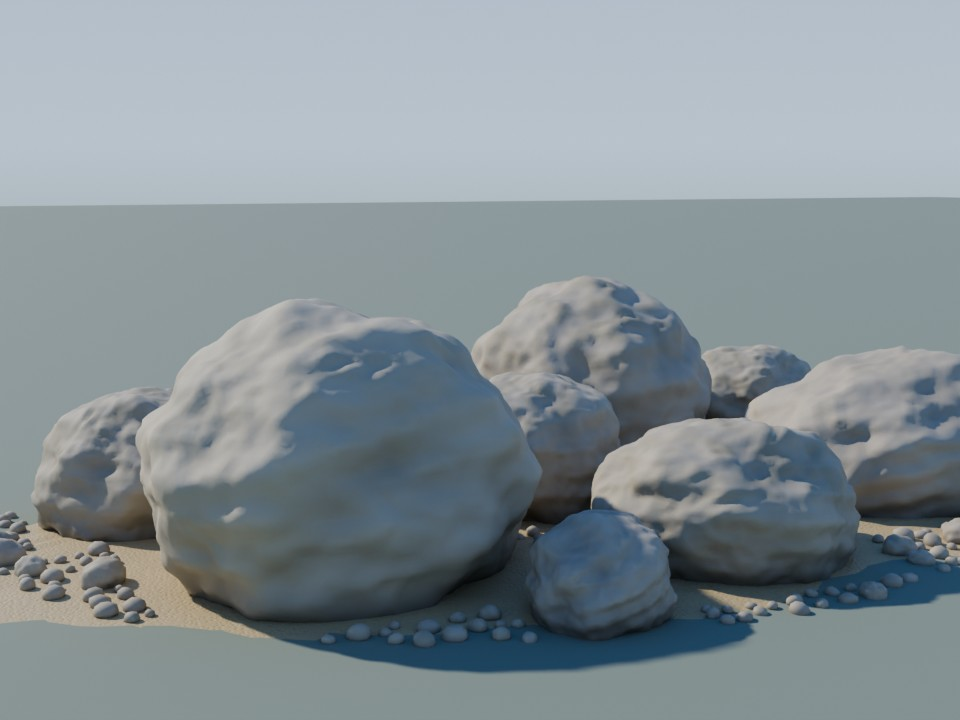
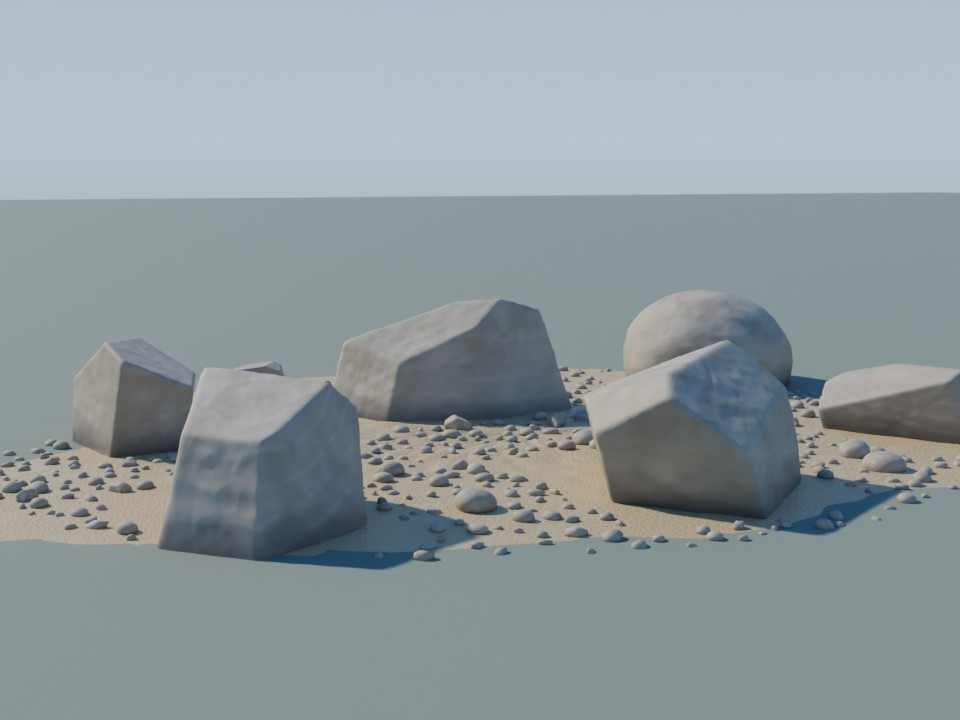
Match shore donor facets with low relief and open gravel channels

diff --git a/assets/rocks/shore_stones_a/build.py b/assets/rocks/shore_stones_a/build.py
@@ -1,4 +1,4 @@
-"""Pale lake-shore limestone; approved stone generator and shader copied verbatim."""
+"""Pale lake-shore limestone; donor geometry at 20% relief and unchanged shader."""
 import math
 import random
 
@@ -175,15 +175,15 @@ def cobble(m, p, template, x, d, r, flat, rng, form=None):
         coarse = n3(2.1*u, 2.1*v+seed, 2.1*w)
         medium = n3(5.75*u, 5.75*v, 5.75*w+seed)
         fine = n3(15*u+seed, 15*v, 15*w)
-        radial = 1 + (.13 if form == "worn" else .09)*coarse
+        radial = 1 + (.026 if form == "worn" else .018)*coarse
         for nx, ny, nz, upper in cuts:
             dot = nx*u+ny*v+nz*w
             if dot > .28:
                 radial = eased_min(radial, upper/dot, .035 if form != "worn" else .095)
         lamina = math.sin((19+7*weather)*(w+.22*u-.14*v) + .76*coarse)
         breakout = smooth(.44 + 1.25*medium - .43*weather)
-        radial *= (1 + (.026+.016*weather)*medium + .013*fine
-                   - .043*chip*breakout + (.019 if form == "slab" else .010)*lamina)
+        radial *= (1 + (.0052+.0032*weather)*medium + .0026*fine
+                   - .0086*chip*breakout + (.0038 if form == "slab" else .002)*lamina)
         u1, v1 = (u*radial + lean*w*.48)*r, v*radial*r*elongation
         px, py = x+ca*u1-sa*v1, y+sa*u1+ca*v1
         z = z0 + r*flat*(w*radial + lean*u*.41)
@@ -261,7 +261,7 @@ def finish():
     vrlib.use_cycles_cpu(bpy.context.scene, 32)
 
 
-def shore_stone(name, radius, flat, centre, seed, material, level=6, form="worn"):
+def shore_stone(name, radius, flat, centre, seed, material, level=6, form="split"):
     if radius <= 0 or flat <= 0 or level < 1:
         raise ValueError("Positive radius, flattening and subdivision level required")
     palette = {key:value["linear_rgb"] for key,value in vrmat.load_palette().items()}
@@ -285,6 +285,9 @@ def shore_stone(name, radius, flat, centre, seed, material, level=6, form="worn"
     cobble(mesh,palette,_TEMPLATES[level],0,3,radius,flat,random.Random(selected),form)
     lo = Vector(tuple(min(p[i] for p in mesh.verts) for i in range(3)))
     hi = Vector(tuple(max(p[i] for p in mesh.verts) for i in range(3)))
+    height_scale = flat*max(hi.x-lo.x,hi.y-lo.y)/(hi.z-lo.z)
+    mesh.verts = [(p[0],p[1],lo.z+(p[2]-lo.z)*height_scale) for p in mesh.verts]
+    hi.z = lo.z+(hi.z-lo.z)*height_scale
     middle = (lo+hi)*.5
     datum = centre[2] if len(centre)>2 else -.027
     offset = Vector((centre[0]-middle.x,centre[1]-middle.y,datum-lo.z))
@@ -305,6 +308,8 @@ def shore_stone(name, radius, flat, centre, seed, material, level=6, form="worn"
     obj["wet_gradient_height_m"] = wet_height
     obj["wet_base_z"] = datum
     obj["stone_form"] = form
+    obj["height_width_ratio"] = flat
+    obj["donor_displacement_multiplier"] = .2
     return obj
 
 
@@ -359,22 +364,25 @@ def build():
         if hit is None:
             raise ValueError("Stone is outside gravel bed")
         return (x,y,hit.z-min(.027,radius*.18))
-    anchors = ((-1.45,.6,.63),(-.25,1.10,.50),(1.1,.75,.70),(1.6,-.30,.43),
-               (.5,-.7,.57),(-.65,-.6,.67),(-1.65,-.65,.38),(.0,.3,.40),
-               (1.3,-1.15,.33),(-.4,-1.4,.33),(.5,1.5,.28),(-1.8,.0,.28))
+    anchors = ((-1.55,.7,.58,"split"),(-.1,1.05,.63,"split"),(1.45,.9,.52,"slab"),
+               (-1.55,-.9,.48,"worn"),(.1,-.65,.74,"split"),(1.55,-.65,.55,"split"),
+               (-.6,-1.4,.28,"worn"),(.75,-1.55,.25,"slab"))
     occupied = []
     large_trees = []
     large_centres = []
-    for i,(x,y,radius) in enumerate(anchors):
+    for i,(x,y,radius,form) in enumerate(anchors):
         for attempt in range(160):
             centre = (x,y) if attempt==0 else (x+rng.uniform(-.5,.5),y+rng.uniform(-.5,.5))
             if (centre[0]/2.3)**2+(centre[1]/1.85)**2>1:
                 continue
             if bed_tree.ray_cast(Vector((*centre,1)),Vector((0,0,-1)),2)[0] is None:
                 continue
-            obj = shore_stone("Uferstein_%02d"%i,radius,rng.uniform(.72,.92),seated(*centre,radius),
-                              SEED+100+i,stone,6,"worn")
+            obj = shore_stone("Uferstein_%02d"%i,radius,rng.uniform(.42,.56),seated(*centre,radius),
+                              SEED+100+i,stone,6,form)
             bounds = xy_bounds(obj)
+            if overlaps(bounds,occupied,.12):
+                bpy.data.objects.remove(obj,do_unlink=True)
+                continue
             tree = stone_tree(obj)
             midpoint = sum((v.co for v in obj.data.vertices),Vector())/len(obj.data.vertices)
             if not any(tree.overlap(other) or inside(other,midpoint) or inside(tree,p)
@@ -400,8 +408,8 @@ def build():
                 break
         else:
             continue
-        obj = shore_stone("Zwischenkiesel_%03d"%i,radius,rng.uniform(.72,.92),seated(x,y,radius),
-                          SEED+1000+i,stone,4 if i < 28 else 2)
+        obj = shore_stone("Zwischenkiesel_%03d"%i,radius,rng.uniform(.40,.60),seated(x,y,radius),
+                          SEED+1000+i,stone,4 if i < 28 else 2,"worn" if i%3==0 else "split")
         occupied.append(xy_bounds(obj))
         if i >= 28:
             gravel.append(obj)

diff --git a/assets/rocks/shore_stones_a/check.py b/assets/rocks/shore_stones_a/check.py
@@ -24,8 +24,15 @@ definitions = {n.name:ast.get_source_segment(source,n).strip() for n in ast.pars
                if isinstance(n,(ast.FunctionDef,ast.ClassDef))}
 for name,digest in EXPECTED.items():
     token = definitions[name]
+    if name=="cobble":
+        token = token.replace('(.026 if form == "worn" else .018)*coarse',
+                              '(.13 if form == "worn" else .09)*coarse')
+        token = token.replace('(.0052+.0032*weather)*medium + .0026*fine',
+                              '(.026+.016*weather)*medium + .013*fine')
+        token = token.replace('.0086*chip*breakout + (.0038 if form == "slab" else .002)*lamina',
+                              '.043*chip*breakout + (.019 if form == "slab" else .010)*lamina')
     assert hashlib.sha256(token.encode()).hexdigest()==digest,("Approved function changed",name)
-print("APPROVED_RECIPE:",ASSET_DIR.name,"generator and material source match approved record")
+print("APPROVED_RECIPE:",ASSET_DIR.name,"donor geometry with displacement amplitudes reduced to 20%; other code and material match approved record")
 
 
 def world_tree(obj):
@@ -83,7 +90,15 @@ bed = next(o for o in objects if o.get("gravel_apron"))
 assert vrlib.world_bounds([bed])[1].z<.04,"Raised sand cone"
 
 if ASSET_DIR.name=="shore_stones_a":
-    assert len([o for o in stones if o.name.startswith("Uferstein_")])==12
+    primary = [o for o in stones if o.name.startswith("Uferstein_")]
+    assert len(primary)==8
+    assert {o["stone_form"] for o in primary}=={"worn","split","slab"}
+    for i,obj in enumerate(primary):
+        lo,hi = vrlib.world_bounds([obj])
+        assert .4<=(hi.z-lo.z)/max(hi.x-lo.x,hi.y-lo.y)<=.601
+        assert obj["donor_displacement_multiplier"]==.2
+        bounds = builder.xy_bounds(obj)
+        assert not builder.overlaps(bounds,[builder.xy_bounds(other) for other in primary[:i]],.119)
     assert len([o for o in stones if o.name.startswith("Zwischenkiesel_")])==28
     assert 4.5<high.x-low.x<5.8
     top_means = []
@@ -92,7 +107,7 @@ if ASSET_DIR.name=="shore_stones_a":
     assert max(edge_radii)-min(edge_radii)>.3,"Circular gravel bed"
     for obj in stones:
         assert obj["approved_generator"]=="pr9/lake_shore_a.cobble"
-        assert obj["stone_form"]=="worn"
+        assert obj["stone_form"] in ("worn","split","slab")
         assert obj.data.color_attributes["stone_tones"].domain=="POINT"
         factors = obj.data.attributes["stone_saturation"].data
         colors = obj.data.color_attributes["stone_tones"].data
@@ -115,7 +130,8 @@ if ASSET_DIR.name=="shore_stones_a":
     assert min(top_means)>.22,top_means
     assert max(max(c[i] for c in chromas)-min(c[i] for c in chromas) for i in range(3))<.035,chromas
     assert max(top_means)/min(top_means)<1.3,top_means
-    print("SHORE_UNITY: worn forms only; one pale tone family; irregular gravel-bed outline")
+    print("SHORE_DONOR_FORMS: 8 separated primary stones; split/slab/worn mix; height/width 0.4-0.6; 20% donor relief")
+    print("SHORE_UNITY: one pale tone family; irregular gravel-bed outline")
     print("SHORE_BASE_WETNESS: smooth local-Z gradient on every stone; pale dry tops; wet roughness attribute")
     for radius,flat in ((0,.6),(-1,.6),(1,0)):
         try:
